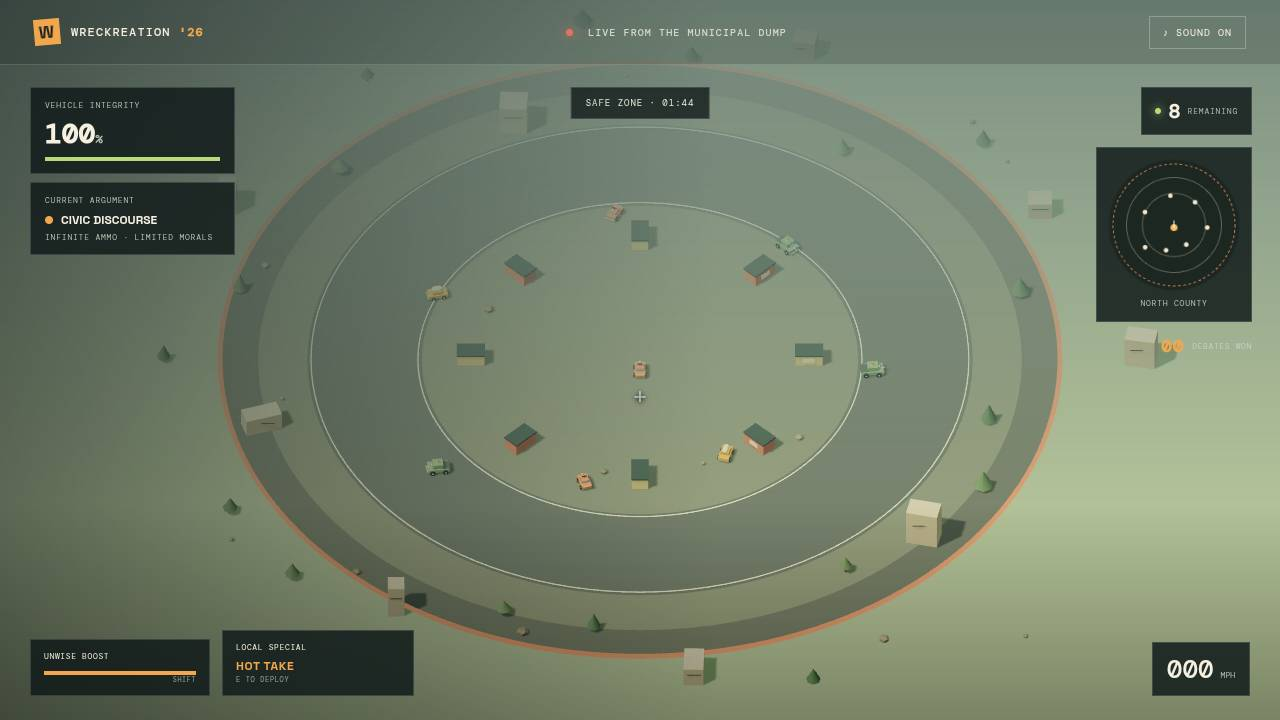
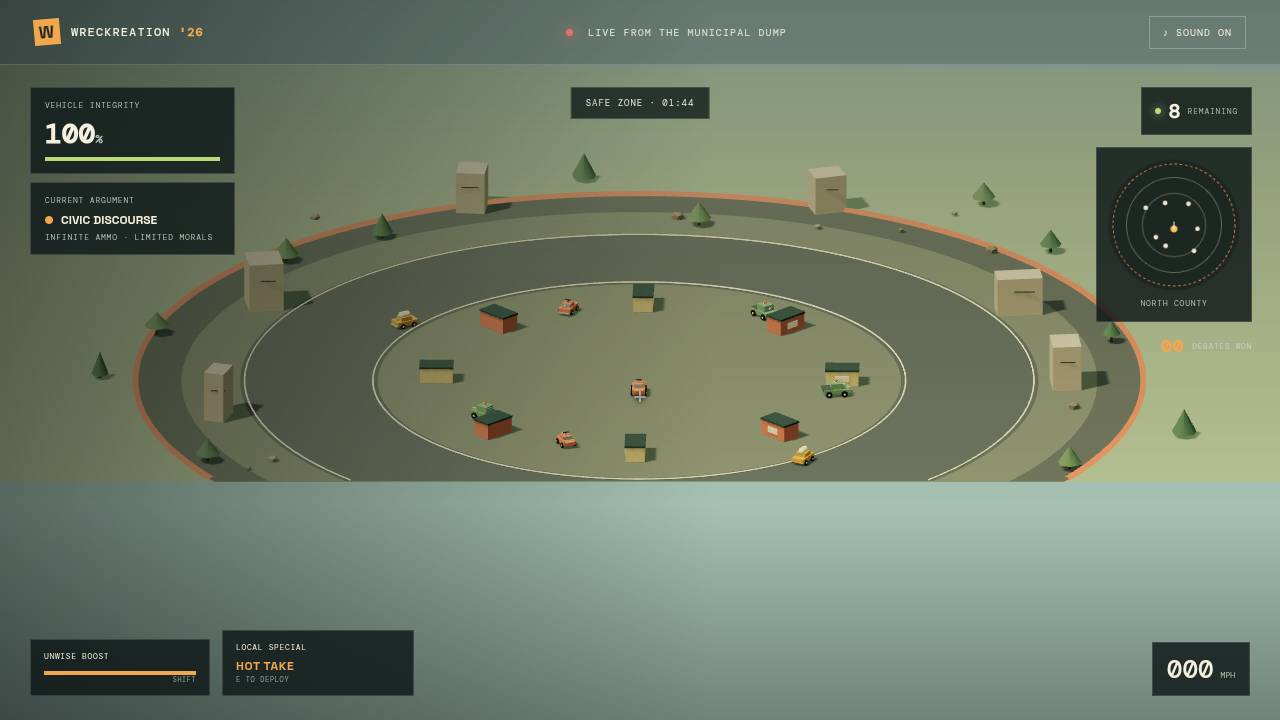
Publish static build for issue #1
Run: 42704303577
Attempt: 1
Generation: 12
Source: 9dc439a13f6d605515ec16a82657f5d6b795151a

diff --git a/game.js b/game.js
@@ -7,8 +7,8 @@ renderer.setPixelRatio(Math.min(devicePixelRatio, isTouchDevice?1.25:1.7)); rend
 renderer.setSize(innerWidth,innerHeight,false);
 const scene = new THREE.Scene(); scene.background = new THREE.Color('#a6c1b2'); scene.fog = new THREE.Fog('#a6c1b2', 75, 270);
 const camera = new THREE.OrthographicCamera(-90,90,90,-90,.1,420); scene.add(new THREE.HemisphereLight('#e9f2d9', '#59645a', 2.0));
-function fitCamera(){const aspect=innerWidth/innerHeight,span=Math.max(132,180/aspect);camera.left=-span*aspect/2;camera.right=span*aspect/2;camera.top=span/2;camera.bottom=-span/2;camera.updateProjectionMatrix();}
-function setArenaCamera(){camera.position.set(0,110,110);camera.lookAt(0,0,0);}
+function fitCamera(){const aspect=innerWidth/innerHeight,span=Math.max(110,170/aspect);camera.left=-span*aspect/2;camera.right=span*aspect/2;camera.top=span/2;camera.bottom=-span/2;camera.updateProjectionMatrix();}
+function setArenaCamera(dt=0){if(!player){camera.position.set(0,52,76);camera.lookAt(0,0,0);return;}const p=player.mesh.position,h=player.heading;const desired=new THREE.Vector3(p.x-Math.sin(h)*30,p.y+18,p.z+Math.cos(h)*30);camera.position.lerp(desired,1-Math.exp(-dt*3.2));camera.lookAt(p.x+Math.sin(h)*10,p.y+1.5,p.z-Math.cos(h)*10);}
 fitCamera();
 const sun = new THREE.DirectionalLight('#fff0ce', 3.2); sun.position.set(-38, 65, 26); sun.castShadow = true; sun.shadow.mapSize.set(1024, 1024); sun.shadow.camera.left = -80; sun.shadow.camera.right = 80; sun.shadow.camera.top = 80; sun.shadow.camera.bottom = -80; scene.add(sun);
 const mat = (color, roughness=.8, metalness=0) => new THREE.MeshStandardMaterial({ color, roughness, metalness });
@@ -114,7 +114,7 @@ function updateBots(dt){
 function updateProjectiles(dt){for(let i=projectiles.length-1;i>=0;i--){const p=projectiles[i];p.life-=dt;p.mesh.position.x+=Math.sin(p.heading)*p.speed*dt;p.mesh.position.z-=Math.cos(p.heading)*p.speed*dt;let hit=null;for(const a of actors){if(a===p.owner||a.dead)continue;if(p.mesh.position.distanceTo(new THREE.Vector3(a.mesh.position.x,a.mesh.position.y+1,a.mesh.position.z))<1.6){hit=a;break;}}if(hit){damage(hit,p.damage,p.owner);burst(p.mesh.position,p.owner.driver.accent,4);p.life=0;}if(p.life<=0){scene.remove(p.mesh);projectiles.splice(i,1);}}}
 function updatePickups(dt){for(let i=pickups.length-1;i>=0;i--){const p=pickups[i];p.life-=dt;p.mesh.rotation.y+=dt*1.8;p.mesh.position.y=.85+Math.sin(gameTime*3+i)*.15;if(player&&!player.dead&&player.mesh.position.distanceTo(p.mesh.position)<2.2){player.hp=Math.min(player.maxHp,player.hp+30);player.boost=Math.min(100,player.boost+35);addToast('COUNTY-ISSUED FIRST AID. PROBABLY EXPIRED.');playTone(620,.14);p.life=0;}if(p.life<=0){scene.remove(p.mesh);pickups.splice(i,1);}}}
 function updateParticles(dt){for(let i=particles.length-1;i>=0;i--){const p=particles[i];p.life-=dt;p.vel.y-=11*dt;p.mesh.position.addScaledVector(p.vel,dt);p.mesh.rotation.x+=dt*4;if(p.life<=0){scene.remove(p.mesh);particles.splice(i,1);}}}
-function updateCamera(dt){if(gameState==='playing'||gameState==='paused'){setArenaCamera();}else{const t=performance.now()*.00012;camera.position.set(Math.sin(t)*23,12,Math.cos(t)*25+7);camera.lookAt(0,1.2,2);if(previewCar)previewCar.rotation.y=-.38+Math.sin(performance.now()*.0006)*.12;}}
+function updateCamera(dt){if(gameState==='playing'||gameState==='paused'){setArenaCamera(dt);}else{const t=performance.now()*.00012;camera.position.set(Math.sin(t)*23,12,Math.cos(t)*25+7);camera.lookAt(0,1.2,2);if(previewCar)previewCar.rotation.y=-.38+Math.sin(performance.now()*.0006)*.12;}}
 const mini=$('#minimap'),ctx=mini.getContext('2d');function drawMap(){const w=mini.width,c=w/2;ctx.clearRect(0,0,w,w);ctx.fillStyle='rgba(28,38,34,.92)';ctx.beginPath();ctx.arc(c,c,c-3,0,Math.PI*2);ctx.fill();ctx.strokeStyle='rgba(225,219,184,.36)';ctx.lineWidth=1;for(const r of [40,60]){ctx.beginPath();ctx.arc(c,c,r/(zoneRadius||77)*(c-8),0,Math.PI*2);ctx.stroke();}ctx.strokeStyle='#e48158';ctx.setLineDash([3,3]);ctx.beginPath();ctx.arc(c,c,zoneRadius/77*(c-8),0,Math.PI*2);ctx.stroke();ctx.setLineDash([]);const scale=(c-9)/zoneRadius;for(const a of actors){if(a.dead)continue;const x=c+a.mesh.position.x*scale,z=c+a.mesh.position.z*scale;ctx.fillStyle=a.isPlayer?'#f7bd61':'#f0e7ce';ctx.beginPath();ctx.arc(x,z,a.isPlayer?4:2.6,0,Math.PI*2);ctx.fill();if(a.isPlayer){ctx.strokeStyle='#fff';ctx.beginPath();ctx.moveTo(x,z);ctx.lineTo(x+Math.sin(a.heading)*8,z-Math.cos(a.heading)*8);ctx.stroke();}}}
 function frame(now){requestAnimationFrame(frame);const dt=Math.min(.04,(now-last)/1000||0);last=now;fireClock=Math.max(0,fireClock-dt);specialClock=Math.max(0,specialClock-dt);renderer.setSize(innerWidth,innerHeight,false);if(gameState==='playing'){gameTime+=dt;zoneTime-=dt;spawnClock-=dt;updatePlayer(dt);updateBots(dt);updateProjectiles(dt);updatePickups(dt);updateParticles(dt);if(zoneTime<=0&&zoneRadius>19){zoneRadius=Math.max(19,zoneRadius-11*dt);$('#zone-status').textContent=`DANGER ZONE · ${Math.round(zoneRadius)}M`;$('#zone-status').style.color='#fd8b6a';}else if(zoneRadius>19)$('#zone-status').textContent=`SAFE ZONE · ${clock(zoneTime)}`;if(spawnClock<=0&&pickups.length<3){spawnPickup(rand(-zoneRadius*.7,zoneRadius*.7),rand(-zoneRadius*.7,zoneRadius*.7));spawnClock=rand(17,24);}$('#alive-count').textContent=actors.filter(a=>!a.dead).length;drawMap();if(now>toastUntil)$('#toast').style.opacity='0';if(player&&!player.dead&&player.hp<=0)damage(player,1,null);}updateCamera(dt);renderer.render(scene,camera);}
 window.addEventListener('resize',()=>{renderer.setSize(innerWidth,innerHeight,false);fitCamera();});requestAnimationFrame(frame);
